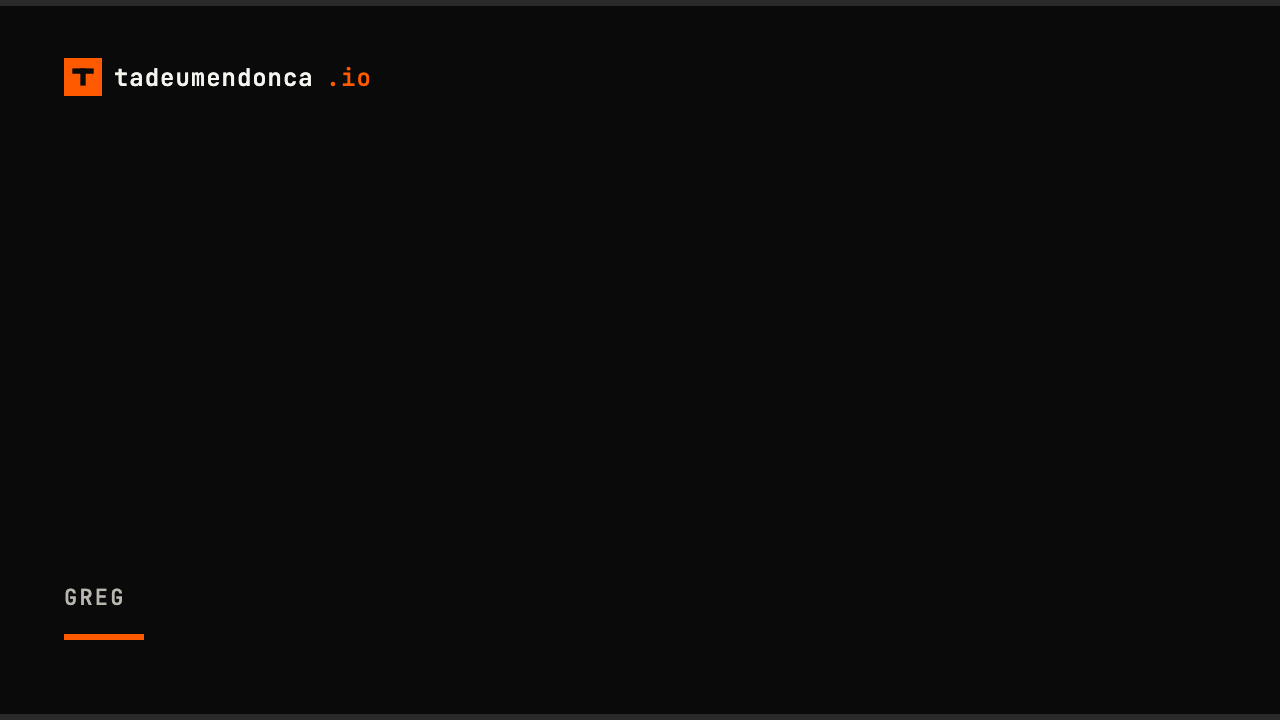
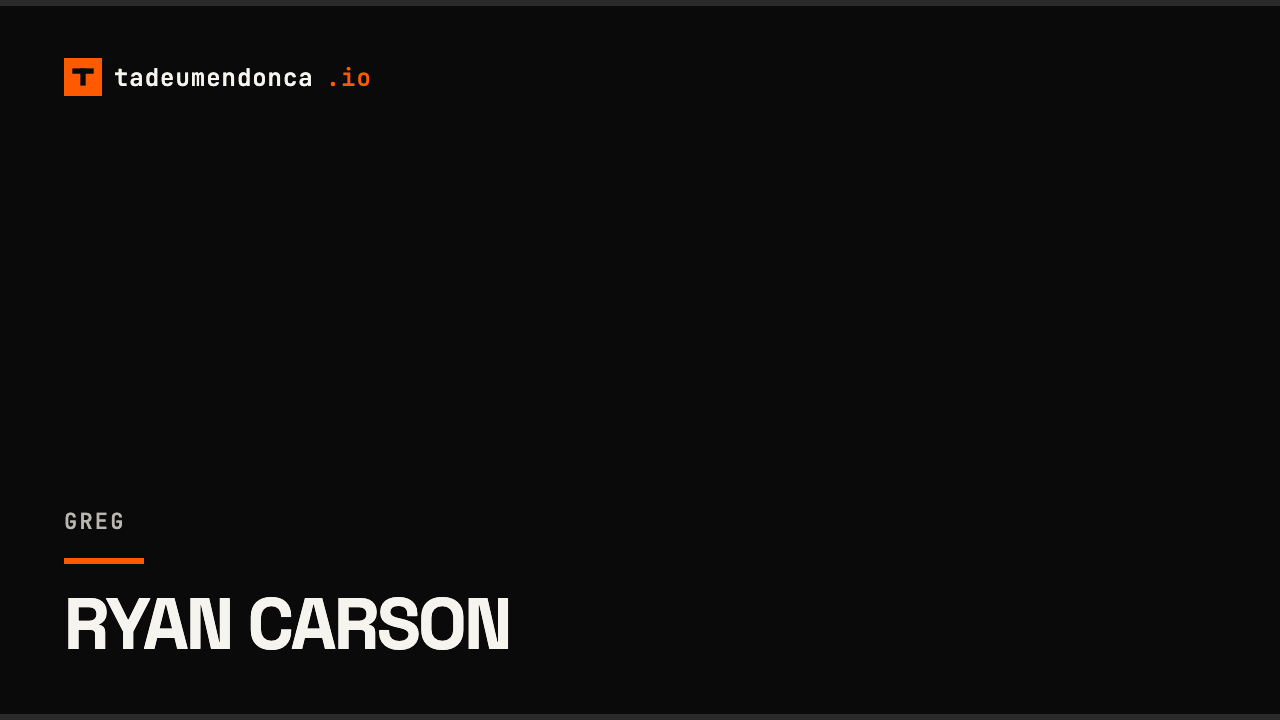
fix(content): the bill correction broke the section under it; replace, and fix two attributions (#577)
Same round 3, continuing the truth repair. Five things, and the first is a
defect this reviewer INTRODUCED two commits ago.

1. THE BILL CORRECTION BROKE THE SECTION BELOW IT. Scoping the invoice to two
   loops made "what was actually burning the money" false by structure: it asked
   where the billed money went and answered entirely with the loop that is NOT on
   the bill. PR #387 is named in #577 as being in tadeumendonca-skills, the
   dispatch-cost record is #382 in the same workspace, and the failed-open
   falsifier is from that day's work there. All four examples are this platform's
   own loop. A correction landed where the claim was STATED and left untouched
   everything that RESTED on it — the class this session keeps paying for.

2. REPLACED WITH THE OWNER'S WAR STORY, which answers the money question better:
   he cannot show the split, and what he can give is the design that made deciding
   expensive — too many actors at one level, all having to agree, and nothing
   shipping. Conflict is not uniformly good; some layers want it and some must not
   have it. No number invented; no coined term; and the nineteen-to-six collapse
   was deliberately NOT joined to it, because #577 diagnoses that one as handoffs
   (profiles generating no disagreement) which is the opposite mechanism.

3. THE EXAMPLES STAYED, and that was checked rather than assumed. The three
   signals later in the piece cite them by content, and the takeaway frontmatter
[…]

Changed region(s): [[0.0312, 0.7639, 0.4062, 0.9167], [0.0312, 0.7028, 0.0938, 0.7333]]

diff --git a/docs/content-review/three-agent-loops-one-month.md b/docs/content-review/three-agent-loops-one-month.md
@@ -254,4 +254,80 @@ that every claim is *traceable to the recorded source*. They cannot establish th
 *complete*. On this piece the gap between those two was four corrections wide, and every one of them
 arrived after the terminal literal.
 
+### The bill correction BROKE a downstream section, and that is the finding worth keeping
+
+**It made *"what was actually burning the money"* false by structure, and nobody caught it until the
+owner read the page.** The section asked where the money went and answered **entirely with the loop that
+is not on the bill**: PR #387 is named in #577 as being in `tadeumendonca-skills`, the dispatch-cost
+record is #382 in that same workspace, and the failed-open falsifier is from the same day's work there.
+**All four examples are this platform's own loop — the one the corrected paragraph four sections earlier
+now explicitly excludes.**
+
+**This is the class this session has paid for repeatedly:** a correction lands where a claim is STATED
+and leaves untouched everything that RESTS on it. The bill sentence was scoped without re-reading what
+the article did with the bill further down.
+
+### What replaced it — the owner's war story, which answers the money question better
+
+> «eh melhor falar sobre a parte de muitos conflitos, menos conflitos, como modelar subagents de forma
+> intencional. isso aprendi a dura pena onde quando coloquei muitos atores num mesmo nivel para
+> concordarem nada mais era entregue no loop scrum agil que estava tentando implementar.»
+
+The section is now **the cause rather than the ledger**: he cannot show the split, and what he can give
+is the design that made deciding expensive — too many actors at one level, all having to agree, nothing
+shipping. **Conflict is not uniformly good**; some layers want it and some must not have it, which the
+piece already says of ideation versus the gate and now carries the failure mode on the other side.
+
+**Three constraints held.** No number invented — he said *"many actors"*. **The nineteen-to-six collapse
+was NOT joined to it:** #577 diagnoses that one as *handoffs, profiles generating no disagreement, which
+is why they never ran* — the opposite mechanism to *peers who all had to converge*. Nothing in the source
+says they are one event. And no coined term, no named pattern, no numbered rule.
+
+### The examples STAYED, and a wholesale delete would have broken the payoff
+
+**Verified before deciding rather than assumed:** the *"how do you notice"* section's three signals cite
+the three examples by content — members-versus-set, the empty check, the instrument against memory — and
+the `takeaway` frontmatter promises *"three signals"*. **Deleting them would have orphaned the reader's
+payoff and left a dangling promise in the metadata**, the same defect class one layer up. So the war
+story replaced the **framing**, which was the false part, and the evidence stayed under a claim it can
+carry. One further leak fixed in the same pass: *"what this month cost"* → *"what my own loop cost me"*,
+since that instrument measures the unbilled loop.
+
+### Matt Pocock — four learnings, three checked against the tree
+
+The section carried only *"it made me see I was on the right track"* — a feeling where this piece's
+register wants an artifact. **Three of his four were verified before being asserted:** six typed commands
+all carrying `argument-hint`, a MADR template whose shape demands the rejected option and its trade-off,
+and eight profiles each with a `skills:` preload list. **The fourth was deliberately weakened** — this
+loop has no PRD, so the draft says the movement is his and names where it lands here instead of claiming
+a practice the harness does not run.
+
+### Both reference defects are ONE class
+
+**A reference described by what it was near rather than by what it contained.** Matt's was treated as
+corroboration when it was four things he took and applied. The closing video was credited to **Greg**,
+who hosts it, when the reflection is **Ryan Carson's** — his correction. Both editions now name Carson
+with Greg as the channel, and `videos.json` gains `"caption": "Ryan Carson"`.
+
+**The caption stops at the speaker on purpose.** The existing rows read *speaker, then title*, and no
+citable source here gives that video's title — the owner's own framing is a description, not a title, and
+`"channel": "Greg"` remains under the open advisory and was left untouched rather than upgraded. **A
+guess must not become a caption.** Regenerated with `npm run gen-video-thumbs`: exactly one PNG changed,
+the other ten byte-identical.
+
+### A rendering defect this reviewer cannot fix — reported, not repaired
+
+**Clare's video (`pqlWNihgdjI`) has embedding disabled by its owner and the site has no preview mode.**
+Established by reading: `VideoEmbed` renders a local poster and swaps in an `<iframe>` **on click**, and
+`videos.json` carries only `channel` and `caption` — **no per-video flag, no link-preview form**. That is
+a component change and it is `developer`'s.
+
+**The failure shape is the bad one:** the facade looks correct and fails only *after* the reader clicks,
+which is how it reached publication.
+
+**The other three are UNVERIFIED, not fine.** The site consults no embeddability signal anywhere — a fact
+about the schema, not an inference — so **nothing in this repository has ever checked whether any of the
+four plays.** Reading an API's `embeddable` field would not close it either, since the site never reads
+that field; the check has to be against the rendered player.
+
 CONTENT-REVIEW-FINDINGS

diff --git a/apps/fed/src/content/blog/three-agent-loops-one-month.pt.md b/apps/fed/src/content/blog/three-agent-loops-one-month.pt.md
@@ -69,11 +69,19 @@ Estou colocando ele aqui, antes do custo, de propósito — por causa do que ele
 
 Se você nunca teve essa experiência aprendendo alguma coisa sem mapa, não sei se consigo transmitir o quanto ela vale. Não é "alguém concorda comigo". É a primeira evidência de que o chão embaixo de você é real.
 
-## O que estava queimando o dinheiro de verdade
+E não foi só reconhecimento. Eu peguei quatro coisas com ele e as quatro estão nos repositórios hoje. **A UX de invocar um comando** — o que a pessoa digita, o que a dica diz enquanto ela digita, o que uma invocação vazia faz quando ela erra. **O fluxo de um documento de intenção para itens rastreados** antes de qualquer coisa ser construída; o meu cai numa issue com a descrição fechada em vez de num PRD, mas o movimento é dele. **A prática de escrever registros de decisão** como MADRs, com a opção rejeitada e o trade-off dela na página, e não só a escolha. E **como gerenciar contextos**, que é a segunda das quatro decisões de design mais para baixo.
+
+## O que tornou decidir tão caro
 
 Então: para onde foi?
 
-Eu não consigo te dar a divisão — já falei isso, e não melhora numa segunda olhada. O que eu consigo apontar é o que ficou sendo torrado e jogado fora, porque eu vi acontecer: **decidir, de novo e de novo, sobre a mesma coisa.**
+**Eu não consigo te mostrar a divisão**, e uma fatura não teria me contado de qualquer jeito — ela não sabe quais decisões dentro de um mês foram as desperdiçadas.
+
+O que eu consigo te contar é o desenho que fez decidir custar tanto, porque esse eu aprendi a duras penas. **Eu coloquei atores demais no mesmo nível, todos tendo que concordar.** Parecia rigor. O que aquilo produziu foi nada sendo entregue — o loop ágil que eu estava tentando implementar parou de entregar, e não porque alguém ali estivesse errado. É que todo mundo tinha que convergir antes de qualquer coisa andar.
+
+Conflito não é bom de forma uniforme, e essa é a parte que eu tinha invertido. **Algumas camadas querem conflito. Algumas camadas não podem ter.** Pares no mesmo nível que precisam todos concordar não é mais escrutínio; é um loop que não consegue fechar.
+
+Essa é a causa. O que vem abaixo é como aquilo parecia por dentro, no único loop cujas rodadas são todas públicas — este, que nem sequer está naquela fatura. Mesmo mês, mesma pessoa, mesmo hábito. O que muda é que este aqui você consegue abrir.
 
 O exemplo mais claro que eu tenho é público, datado, e aconteceu no último dia do mês — que é como eu sei que não estou reconstruindo isso com carinho. Um pull request no repositório do meu loop passou por **oito rodadas de revisão e nove commits de correção**, e cada uma das rodadas encontrou *mais uma instância da mesma classe de defeito*.
 
@@ -94,7 +102,7 @@ Mais duas coisas do mesmo mês, as duas baratas de descrever e as duas caras de 
 
 **Uma verificação que falhava aberta.** Eu publiquei um comando de verificação com um erro de escape dentro. Ele devolvia zero linhas. Zero linhas *se lê como limpo*. Sobreviveu quatro rodadas parecendo prova.
 
-**Um instrumento que mentia.** O loop mantém o próprio registro do que cada agente custa para ser despachado. Quando eu finalmente auditei, ele estava **errado sobre cinco dos sete perfis** — inflado para uns, deflacionado para outros. A coisa que deveria me dizer quanto esse mês custou não conseguia me dizer.
+**Um instrumento que mentia.** O loop mantém o próprio registro do que cada agente custa para ser despachado. Quando eu finalmente auditei, ele estava **errado sobre cinco dos sete perfis** — inflado para uns, deflacionado para outros. A coisa que deveria me dizer quanto o meu próprio loop estava me custando não conseguia me dizer.
 
 ## Então — como você percebe?
 
@@ -191,7 +199,7 @@ Vou terminar onde o mês terminou, que é num limite e não numa conclusão.
 
 https://www.youtube.com/watch?v=vJEy3nP2_C8
 
-O do Greg é sobre escalar trabalho de agentes para máquinas na nuvem — sair dos limites do seu ambiente local. Eu não fui atrás daquele vídeo. **Eu bati no teto que ele descreve fazendo trabalho comum, e aí assisti.**
+O Ryan Carson, no canal do Greg, fala sobre escalar trabalho de agentes para máquinas na nuvem — sair dos limites do seu ambiente local. Eu não fui atrás daquele vídeo. **Eu bati no teto que ele descreve fazendo trabalho comum, e aí assisti.**
 
 O teto, concretamente. A minha última retrospectiva consultou sete perfis **um depois do outro**, e o único motivo é que existe uma árvore de trabalho e um índice do git, e dois agentes commitando na mesma árvore corrompem o estado um do outro. Eu dividi um pedaço de trabalho num segundo checkout para rodar duas coisas de uma vez, e um dos checkouts que o próprio harness criou para mim **não era gravável por nenhum perfil do harness**, por causa de onde ele coloca esses checkouts.
 

diff --git a/apps/fed/src/content/blog/three-agent-loops-one-month.en.md b/apps/fed/src/content/blog/three-agent-loops-one-month.en.md
@@ -69,11 +69,19 @@ I am putting it here, before the cost, on purpose — because of what it did for
 
 If you have never had that experience while learning something with no map, I am not sure I can convey how much it is worth. It is not "someone agrees with me." It is the first evidence that the ground under you is real.
 
-## What was actually burning the money
+And it was not only recognition. I took four things from him and all four are in the repositories now. **The UX of invoking a command** — what a human types, what the hint says while they are typing it, what a bare invocation does when they get it wrong. **The flow from a document of intent to tracked items** before anything gets built; mine lands on an issue with a closed description rather than on a PRD, but the movement is his. **The practice of writing decision records** as MADRs, with the rejected option and its trade-off on the page instead of only the choice. And **how to manage contexts**, which is the second of the four design decisions further down.
+
+## What made deciding expensive
 
 So: where did it go?
 
-I cannot give you the split — I said that already, and it does not get better on a second look. What I can point at is what kept getting burned and thrown away, because I watched it happen: **deciding, over and over, about the same thing.**
+**I cannot show you the split**, and an invoice would not have told me anyway — it does not know which decisions inside a month were the wasteful ones.
+
+What I can tell you is the design that made deciding cost so much, because I learned that one the hard way. **I put too many actors at the same level, all of them having to agree.** It felt like rigour. What it produced was that nothing got delivered — the agile loop I was trying to run stopped shipping, and not because anyone in it was wrong. Everyone had to converge before anything could move.
+
+Conflict is not uniformly good, and that is the part I had backwards. **Some layers want it. Some layers must not have it.** Peers at one level who all have to agree is not more scrutiny; it is a loop that cannot close.
+
+That is the cause. What follows is what it looked like from the inside, in the one loop whose every round is public — this one, which is not even on that invoice. Same month, same person, same habit. What is different is that this one you can open.
 
 The clearest example I have is public, dated, and happened on the last day of the month, which is how I know I am not reconstructing it kindly. One pull request in my loop repository went through **eight review rounds and nine repair commits**, and every single round found *one more instance of the same class of defect*.
 
@@ -94,7 +102,7 @@ Two other things from the same month, both cheap to describe and both expensive 
 
 **A check that failed open.** I published a verification command with a quoting mistake in it. It returned zero lines. Zero lines *reads as clean*. It survived four rounds looking like proof.
 
-**An instrument that lied.** The loop keeps its own record of what each agent costs to dispatch. When I finally audited it, it was **wrong about five of the seven profiles** — inflated for some, deflated for others. The thing that was supposed to tell me what this month cost could not tell me.
+**An instrument that lied.** The loop keeps its own record of what each agent costs to dispatch. When I finally audited it, it was **wrong about five of the seven profiles** — inflated for some, deflated for others. The thing that was supposed to tell me what my own loop cost me could not tell me.
 
 ## So — how do you notice?
 
@@ -191,7 +199,7 @@ I will end where the month ended, which is at a limit rather than a conclusion.
 
 https://www.youtube.com/watch?v=vJEy3nP2_C8
 
-Greg's is about scaling agent work onto cloud machines — getting out of the limits of your local environment. I did not go looking for that video. **I hit the ceiling it describes while doing ordinary work, and then watched it.**
+Ryan Carson, on Greg's channel, is talking about scaling agent work onto cloud machines — getting out of the limits of your local environment. I did not go looking for that video. **I hit the ceiling it describes while doing ordinary work, and then watched it.**
 
 Here is the ceiling, concretely. My last retrospective consulted seven profiles **one after another**, and the only reason was that there is one working tree and one git index, and two agents committing into the same tree corrupt each other. I split a piece of work across a second checkout to run two things at once, and one of the checkouts the harness created for me **was unwritable by every profile in the harness**, because of where it puts them.
 
